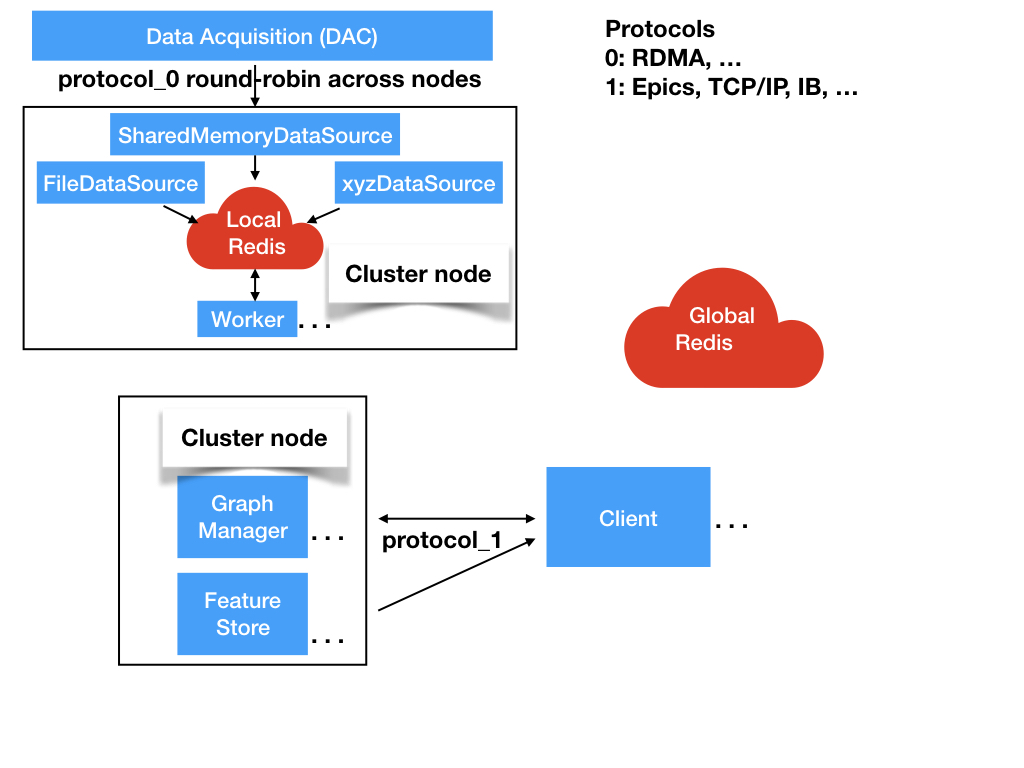
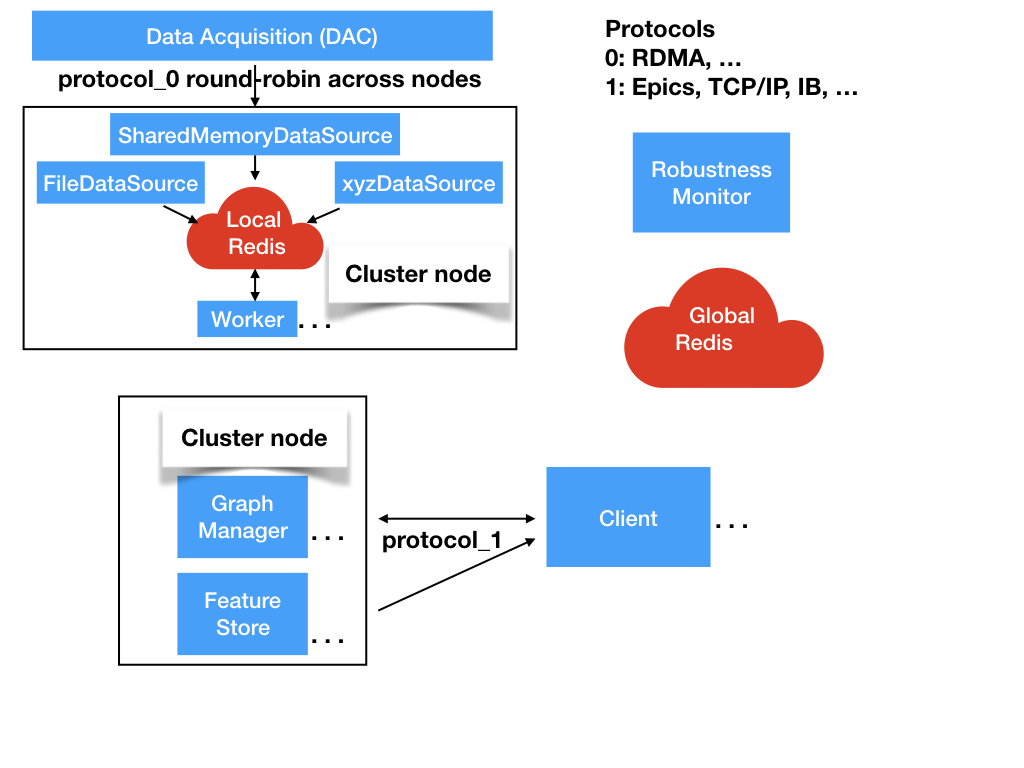
robustness monitor

Changed region(s): [[0.5938, 0.1562, 0.7812, 0.3125]]

diff --git a/doc/toplevel.md b/doc/toplevel.md
@@ -76,6 +76,10 @@ Communication between the clients, GraphManager and FeatureStore occurs over a [
 The Experimental Physics and Industrial Control System (EPICS) is a DOE labs protocol.
 #### TCP/IP
 
+### Robustness Monitor
+The [Robustness Monitor](robustness.md) is a process that monitors the state of the system and restarts failed processes.
+It is in turn monitored by another component.
+
 
 ## Project Goals
 

diff --git a/doc/robustness.md b/doc/robustness.md
@@ -1,0 +1,5 @@
+# Robustness Monitor
+
+Monitors the state of all other processes using a heartbeat transmitted through Redis.
+This process must itself be monitored and restarted if it fails.
+
